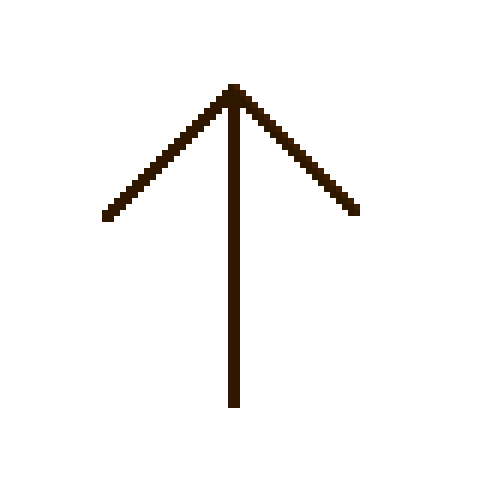
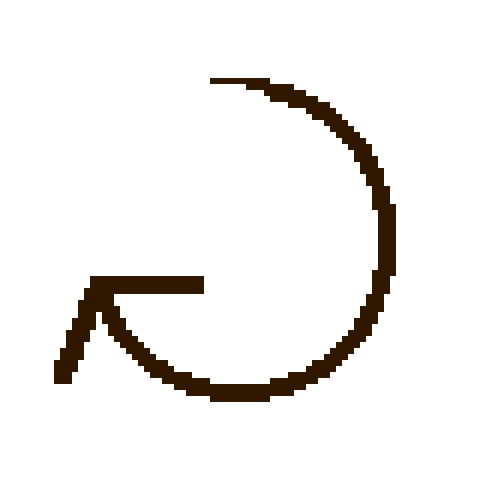
ajout de méthodes avertissement en cours

Changed region(s): [[0.0938, 0.1562, 0.8438, 0.875]]

diff --git a/src/main/java/universite_paris8/iut/nchaieb/sae_jeux/vue/InterfaceVue.java b/src/main/java/universite_paris8/iut/nchaieb/sae_jeux/vue/InterfaceVue.java
@@ -18,11 +18,12 @@ public class InterfaceVue {
     Image symboleSpirale = new Image(Main.class.getResourceAsStream("images/symboleSpirale.png"));
     Image symboleOeil = new Image(Main.class.getResourceAsStream("images/symboleOeil.png"));
     Image symboleEclipse = new Image(Main.class.getResourceAsStream("images/symboleEclipse.png"));
-    Image symboleOiseau = new Image(Main.class.getResourceAsStream("images/symboleOiseau.png"));
+    Image symboleCrystal = new Image(Main.class.getResourceAsStream("images/symboleCrystal.png"));
     Image symboleFleche = new Image(Main.class.getResourceAsStream("images/symboleFleche.png"));
-    Image symbolePic = new Image(Main.class.getResourceAsStream("images/symbolePic.png"));
+    Image symboleTomoe = new Image(Main.class.getResourceAsStream("images/symboleTomoe.png"));
     Image symboleTriangle = new Image(Main.class.getResourceAsStream("images/symboleTriangle.png"));
     Image symboleCorne = new Image(Main.class.getResourceAsStream("images/Corne.png"));
+    Image symboleFeu = new Image(Main.class.getResourceAsStream("images/symboleFeu.png"));
 
     private StackPane stackPane;
 
@@ -80,20 +81,23 @@ public class InterfaceVue {
             case "eclipse":
                 image = new ImageView(symboleEclipse);
                 break;
-            case "oiseau":
-                image = new ImageView(symboleOiseau);
+            case "crystal":
+                image = new ImageView(symboleCrystal);
                 break;
             case "fleche":
                 image = new ImageView(symboleFleche);
                 break;
-            case "pic":
-                image = new ImageView(symbolePic);
+            case "tomoe":
+                image = new ImageView(symboleTomoe);
                 break;
             case "triangle":
                 image = new ImageView(symboleTriangle);
                 break;
             case "corne":
                 image = new ImageView(symboleCorne);
+                break;
+            case "feu":
+                image = new ImageView(symboleFeu);
                 break;
         }
 

diff --git a/src/main/java/universite_paris8/iut/nchaieb/sae_jeux/MonObservateurSymbole.java b/src/main/java/universite_paris8/iut/nchaieb/sae_jeux/MonObservateurSymbole.java
@@ -9,10 +9,12 @@ import universite_paris8.iut.nchaieb.sae_jeux.vue.InterfaceVue;
 public class MonObservateurSymbole implements ListChangeListener<String> {
 
     private InterfaceVue interfaceVue;
+//    private Symboles symboles;
     private int compteur;
 
     public MonObservateurSymbole(InterfaceVue interfaceVue){
         this.interfaceVue = interfaceVue;
+//        this.symboles = symboles;
         this.compteur=0;
     }
 
@@ -28,6 +30,13 @@ public class MonObservateurSymbole implements ListChangeListener<String> {
                     this.interfaceVue.afficherUnSeulSymbole(symbole, this.compteur);
                     compteur++;
                 }
+
+//                for (String symbole : change.getAddedSubList()){
+//                    this.symboles.ajouterSymbole(symbole);
+//                   if (this.symboles.avertissement()){
+//
+//                   }
+//                }
             }
         }
     }

diff --git a/src/main/java/universite_paris8/iut/nchaieb/sae_jeux/ControleurJeu.java b/src/main/java/universite_paris8/iut/nchaieb/sae_jeux/ControleurJeu.java
@@ -225,20 +225,23 @@ public class ControleurJeu implements Initializable{
             case "eclipse":
                 symbole = "eclipse";
                 break;
-            case "oiseau":
-                symbole = "oiseau";
+            case "crystal":
+                symbole = "crystal";
                 break;
             case "fleche":
                 symbole = "fleche";
                 break;
-            case "pic":
-                symbole = "pic";
+            case "tomoe":
+                symbole = "tomoe";
                 break;
             case "triangle":
                 symbole = "triangle";
                 break;
             case "corne":
                 symbole = "corne";
+                break;
+            case "feu":
+                symbole = "feu";
                 break;
         }
 

diff --git a/src/main/java/universite_paris8/iut/nchaieb/sae_jeux/modele/Symboles.java b/src/main/java/universite_paris8/iut/nchaieb/sae_jeux/modele/Symboles.java
@@ -20,12 +20,22 @@ public class Symboles {
     }
 
     public void ajouterSymbole(String symbole){
+        boolean afficherAvertissement = false;
+
         if (this.combinaison.size() <6 ){
             this.combinaison.add(symbole);
         } else {
             System.out.println("ce symbole ne sera pas comptabilisé");
+            afficherAvertissement = true;
         }
     }
+
+//    public boolean avertissement(){
+//
+//        if (this.symboles)
+//
+//        return false;
+//    }
 
 
     public void retirerSymbole (){

diff --git a/src/main/java/universite_paris8/iut/nchaieb/sae_jeux/modele/CombinaisonValables.java b/src/main/java/universite_paris8/iut/nchaieb/sae_jeux/modele/CombinaisonValables.java
@@ -10,7 +10,7 @@ public class CombinaisonValables {
 
     public CombinaisonValables() {
         this.tourOeil = new ArrayList<String>(List.of("oeil", "croix", "eclipse"));
-        this.tourHeal = new ArrayList<String>(List.of("croix","goutte" ,"oiseau", "spirale"));
+        this.tourHeal = new ArrayList<String>(List.of("croix","goutte" ,"crystal", "spirale"));
     }
 
 
